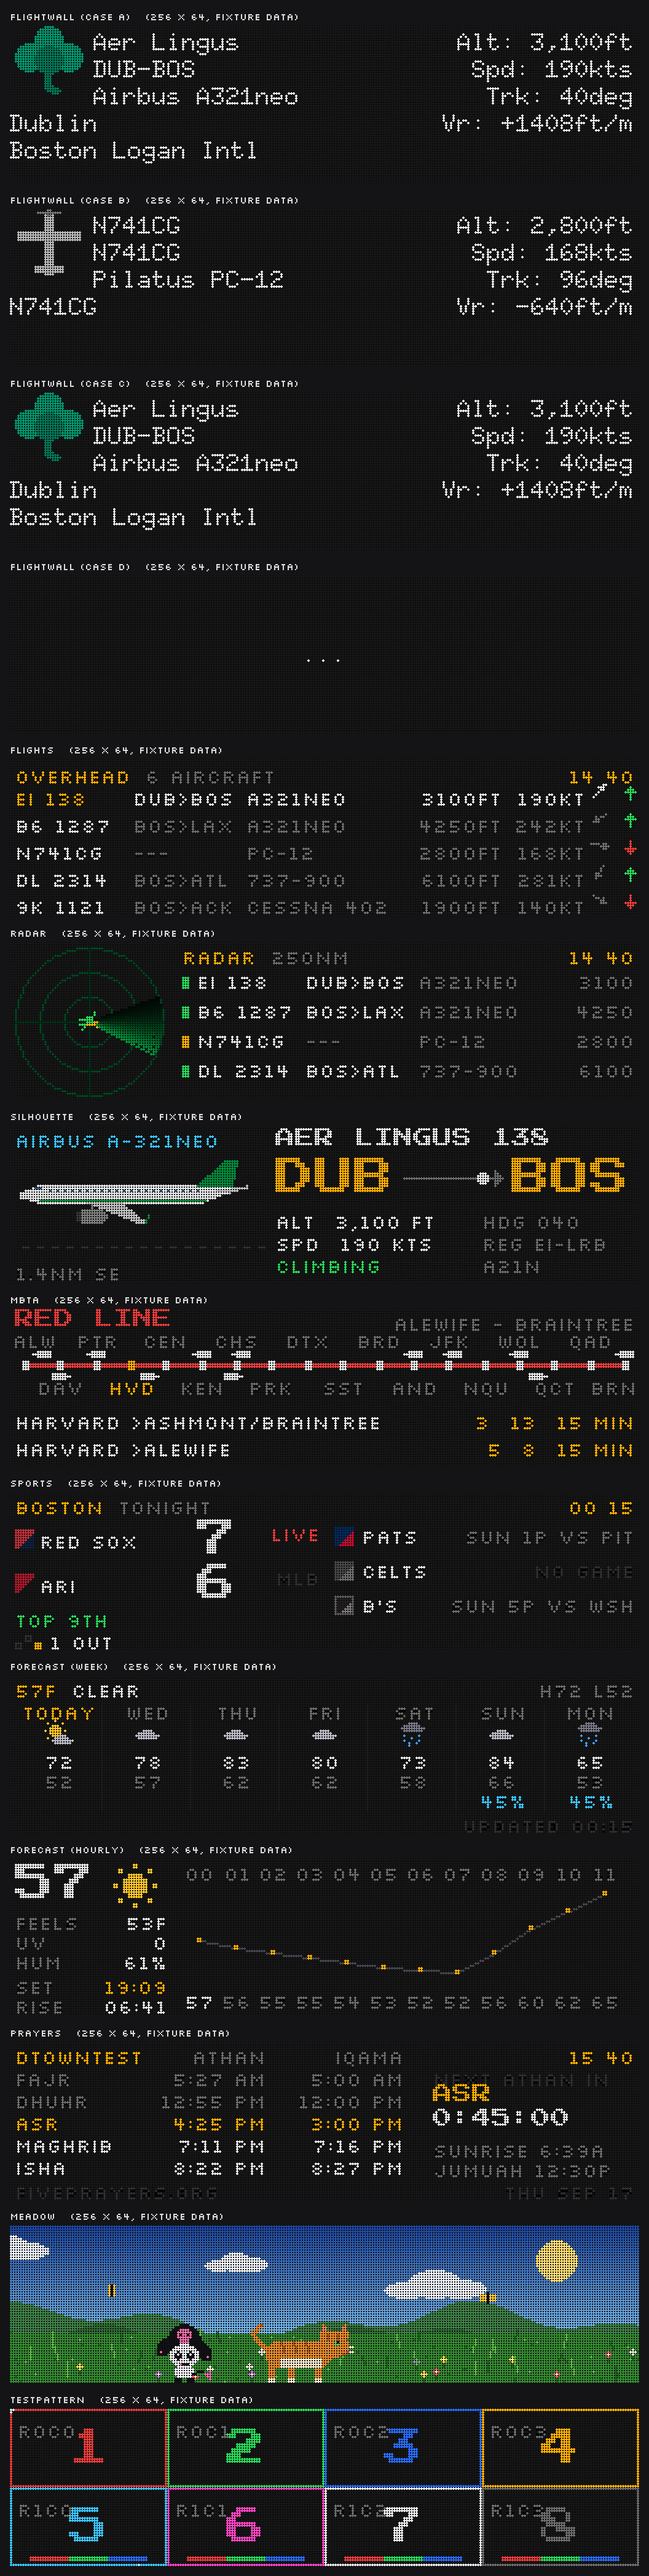
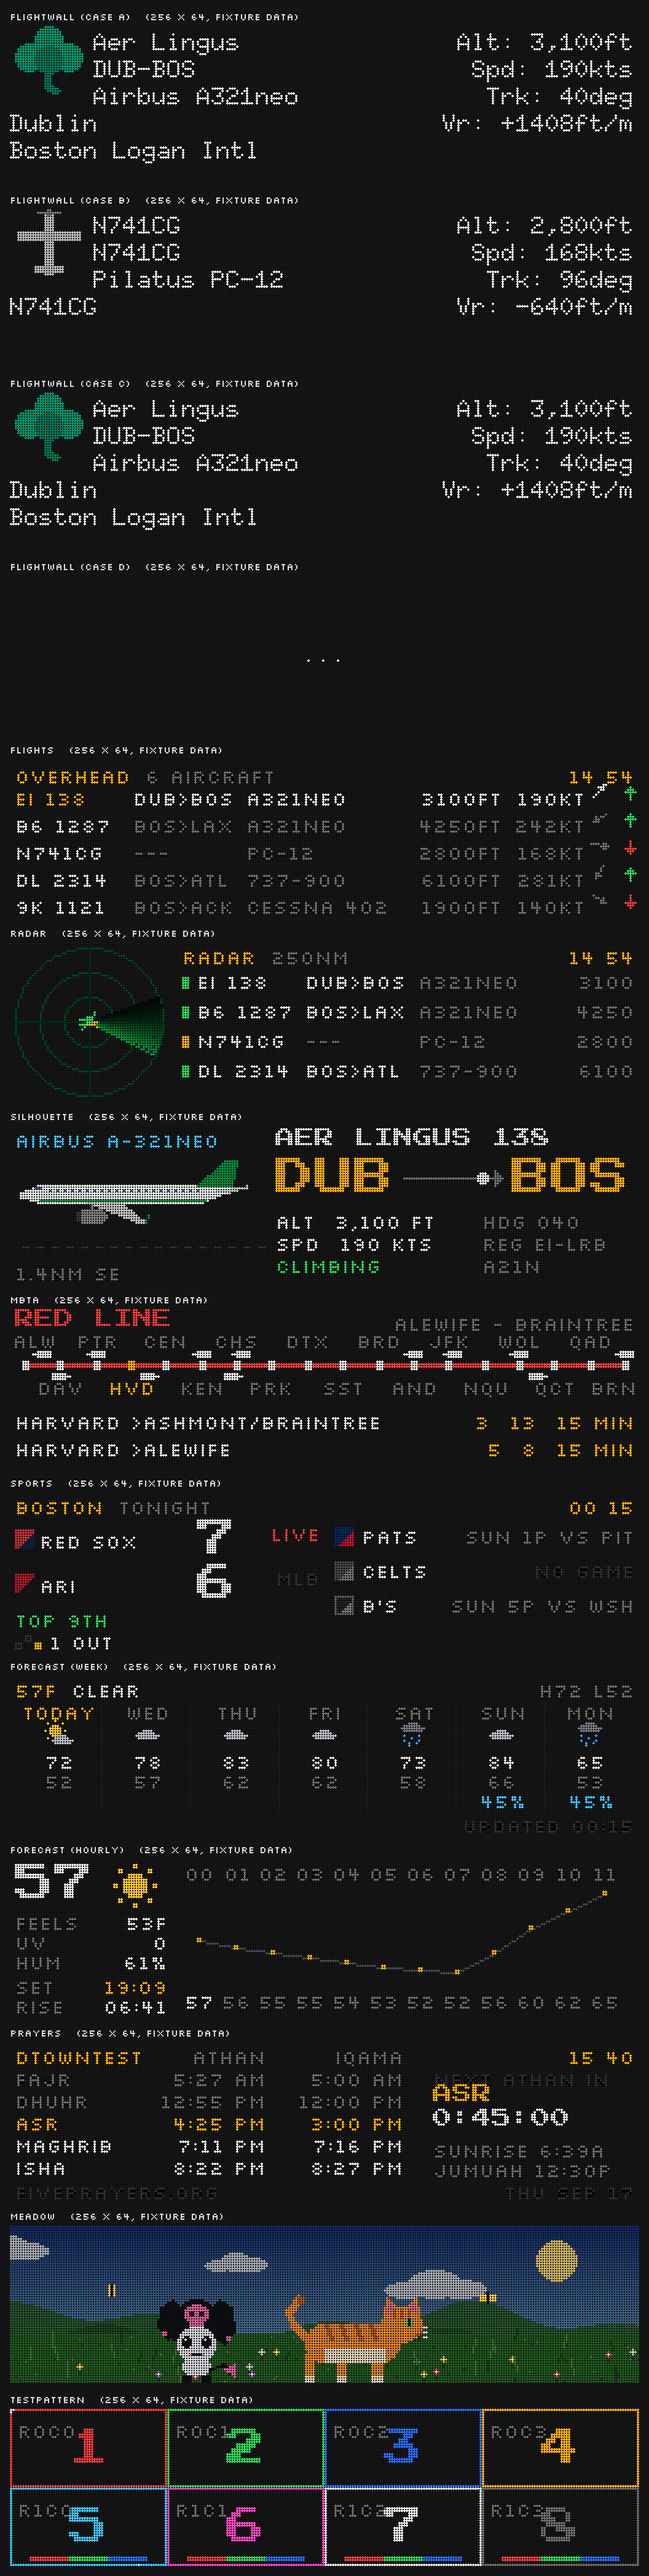
Meadow: bigger cat (60x36) and Kuromi (32x34), muted background palette
Both sprites redrawn by hand at ~1.5x so legs, stripes, ears and faces have
enough pixels to read on the wall; the sitting cat gets a chest bib with
legs either side, Kuromi's ears rise from the hood and droop with the hop.
Sky, hills, grass, clouds and flowers are pulled down ~35% so the bright
LEDs don't glare and the characters carry the scene.

Changed region(s): [[0.0, 0.8381, 1.0, 0.9312]]

diff --git a/panelwall/channels/meadow.py b/panelwall/channels/meadow.py
@@ -3,7 +3,8 @@
 Scene (256x64), back to front:
   sky gradient + sun, three drifting clouds (slow parallax), two layers of rolling hills
   (pre-rendered 512 px wide, scrolled with wrap), a flowered grass strip (y 44-63) with
-  ~60 swaying blades, two butterflies on sine paths, the cat, and Kuromi.
+  ~90 swaying blades, two butterflies on sine paths, the cat (60x36) and Kuromi (32x34).
+  The palette is muted on purpose: the LEDs are bright, and the characters should pop.
 
 The world scrolls while the cat walks (the cat stays near x=96); the layers wrap, so it
 loops forever. A small state machine gives the cat a life: walk, stop and sit, tail
@@ -27,19 +28,19 @@ from PIL import Image, ImageDraw
 from ..framebuffer import Frame, W, H
 from .base import Channel
 
-# ---- palette -------------------------------------------------------------------------------------
-SKY_TOP, SKY_BOTTOM = (28, 70, 160), (120, 185, 235)
-SUN = (255, 225, 120)
-CLOUD = (240, 244, 250)
-HILL_FAR, HILL_NEAR = (62, 130, 70), (46, 110, 52)
-GRASS, GRASS_DARK, GRASS_LIGHT = (52, 140, 48), (36, 105, 36), (96, 190, 70)
-FLOWERS = ((255, 90, 120), (255, 220, 60), (240, 240, 255), (200, 120, 255))
-ORANGE, ORANGE_DARK, CREAM = (235, 140, 40), (190, 95, 20), (250, 235, 205)
-BLACK, WHITE, PINK, GREEN_EYE = (18, 18, 22), (245, 245, 250), (240, 110, 170), (90, 200, 90)
+# ---- palette (deliberately muted: the wall is bright, and the characters should carry the scene) ----
+SKY_TOP, SKY_BOTTOM = (16, 40, 95), (70, 108, 140)
+SUN = (205, 180, 95)
+CLOUD = (165, 170, 178)
+HILL_FAR, HILL_NEAR = (38, 82, 44), (28, 68, 32)
+GRASS, GRASS_DARK, GRASS_LIGHT = (32, 88, 30), (22, 62, 22), (58, 118, 44)
+FLOWERS = ((190, 70, 95), (195, 165, 45), (175, 175, 190), (145, 90, 190))
+ORANGE, ORANGE_DARK, CREAM = (225, 130, 35), (175, 85, 18), (225, 210, 180)
+BLACK, WHITE, PINK, GREEN_EYE = (14, 14, 18), (215, 215, 222), (220, 95, 155), (80, 180, 80)
 
 WORLD_W = 512                     # hills/ground tile width; scroll wraps here
 HORIZON = 44
-CAT_X = 96
+CAT_X = 110
 WALK_SPEED = 14.0                 # px/s world scroll while walking
 
 
@@ -116,93 +117,101 @@ def blades() -> list[tuple[int, int, int, float]]:
     return [(rnd.randrange(WORLD_W), rnd.randrange(HORIZON + 2, H), rnd.randrange(3, 7), rnd.random() * math.tau) for _ in range(90)]
 
 
-# ---- sprites -------------------------------------------------------------------------------------
+# ---- sprites (hand-placed at 60x36 / 32x34 so edges stay crisp) ------------------------------------
+CAT_W, CAT_H = 60, 36
+KUROMI_W, KUROMI_H = 32, 34
+
+
+def _cat_head(d: ImageDraw.ImageDraw, cx: int, hy: int, look_back: bool) -> None:
+    """17x16 head with ears, facing right; mirrored features when looking back over the shoulder."""
+    flip = -1 if look_back else 1
+    d.ellipse([cx, hy + 2, cx + 16, hy + 16], fill=ORANGE)
+    d.polygon([(cx + 1, hy + 5), (cx + 2, hy - 2), (cx + 7, hy + 3)], fill=ORANGE)          # ears
+    d.polygon([(cx + 9, hy + 3), (cx + 14, hy - 2), (cx + 15, hy + 5)], fill=ORANGE)
+    d.polygon([(cx + 2, hy + 4), (cx + 3, hy), (cx + 5, hy + 3)], fill=PINK)                 # inner ears
+    d.polygon([(cx + 11, hy + 3), (cx + 13, hy), (cx + 14, hy + 4)], fill=PINK)
+    for sx in (cx + 5, cx + 8, cx + 11):                                                     # forehead 'M'
+        d.line([(sx, hy + 3), (sx, hy + 6)], fill=ORANGE_DARK)
+    ex = cx + (11 if flip > 0 else 3)
+    d.rectangle([ex - 1, hy + 7, ex + 1, hy + 9], fill=GREEN_EYE)                            # eye
+    d.rectangle([ex, hy + 7, ex, hy + 9], fill=BLACK)
+    nx = cx + (16 if flip > 0 else 0)
+    d.rectangle([nx - 1, hy + 11, nx, hy + 11], fill=PINK)                                   # nose
+    d.line([(nx, hy + 12), (nx - 2 * flip, hy + 13)], fill=ORANGE_DARK)                      # mouth
+    for i, wy in enumerate((hy + 10, hy + 12, hy + 14)):                                      # whiskers
+        d.line([(nx + 1 * flip, wy), (nx + 7 * flip, wy + (i - 1) * 2)], fill=CREAM)
+
+
 @lru_cache(maxsize=16)
 def cat_sprite(pose: str, step: int = 0, look_back: bool = False) -> Image.Image:
-    """Orange tabby, side view facing right, in a 44x26 box. pose: walk | sit. step 0-3 for the walk cycle."""
-    im = Image.new("RGBA", (44, 26), (0, 0, 0, 0))
+    """Orange tabby, side view facing right, in a 60x36 box. pose: walk | sit. step 0-3 for the walk cycle."""
+    im = Image.new("RGBA", (CAT_W, CAT_H), (0, 0, 0, 0))
     d = ImageDraw.Draw(im)
-    gy = 25                                                 # ground line (bottom row)
+    gy = CAT_H - 1
     if pose == "walk":
-        # legs: two pairs alternating; step 0..3 -> phase
         ph = (0, 1, 0, -1)[step % 4]
-        for lx, back in ((11, True), (15, True), (26, False), (30, False)):
-            dx = ph * (2 if back else -2) * (1 if lx in (11, 26) else -1)
-            d.rectangle([lx + dx, 17, lx + dx + 2, gy], fill=ORANGE)
-            d.rectangle([lx + dx, gy - 1, lx + dx + 2, gy], fill=CREAM)      # paws
-        d.rounded_rectangle([8, 9, 34, 19], radius=5, fill=ORANGE)            # body
-        d.rectangle([14, 16, 30, 19], fill=CREAM)                             # belly
-        for sx in (14, 19, 24):                                               # tabby stripes
-            d.line([(sx, 9), (sx + 1, 13)], fill=ORANGE_DARK)
-        # tail: up and curled, with a little sway per step
-        tail = [(8, 12), (4, 8), (3, 4 + (step % 2)), (6, 2)]
-        d.line(tail, fill=ORANGE, width=2)
-        d.point((6, 2), fill=ORANGE_DARK)
-        hx = 30                                                               # head at the front
-        hy = 5
-    else:                                                                     # sit
-        d.polygon([(10, 25), (12, 10), (30, 10), (34, 25)], fill=ORANGE)       # haunches/back
-        d.rounded_rectangle([12, 8, 32, 20], radius=5, fill=ORANGE)
-        d.rectangle([18, 15, 30, 24], fill=CREAM)                             # chest
-        d.rectangle([21, 19, 23, gy], fill=ORANGE)                            # front legs
-        d.rectangle([27, 19, 29, gy], fill=ORANGE)
-        d.rectangle([21, gy - 1, 23, gy], fill=CREAM)
-        d.rectangle([27, gy - 1, 29, gy], fill=CREAM)
-        for sx in (16, 21, 26):
-            d.line([(sx, 8), (sx + 1, 12)], fill=ORANGE_DARK)
-        d.line([(12, 22), (6, 24), (3, 20 - 2 * (step % 2))], fill=ORANGE, width=2)   # tail along the ground, flicking
-        hx, hy = 30, 2
-    # head (shared): 12x11 with ears, facing right (or back-left when looking back)
-    flip = -1 if look_back else 1
-    cx = hx + (0 if not look_back else -8)
-    d.ellipse([cx - 1, hy, cx + 11, hy + 10], fill=ORANGE)
-    d.polygon([(cx, hy + 2), (cx + 1, hy - 3), (cx + 4, hy + 1)], fill=ORANGE)         # ears
-    d.polygon([(cx + 7, hy + 1), (cx + 10, hy - 3), (cx + 11, hy + 2)], fill=ORANGE)
-    d.point([(cx + 1, hy - 1), (cx + 9, hy - 1)], fill=PINK)
-    d.line([(cx + 3, hy + 1), (cx + 3, hy + 3)], fill=ORANGE_DARK)                     # forehead 'M'
-    d.line([(cx + 7, hy + 1), (cx + 7, hy + 3)], fill=ORANGE_DARK)
-    ex = cx + (7 if flip > 0 else 3)
-    d.rectangle([ex - 1, hy + 4, ex, hy + 5], fill=GREEN_EYE)                          # eye
-    d.point((ex, hy + 4), fill=BLACK)
-    nx = cx + (11 if flip > 0 else -1)
-    d.point((nx, hy + 7), fill=PINK)                                                   # nose
-    d.line([(nx, hy + 8), (nx - 2 * flip, hy + 9)], fill=ORANGE_DARK)                  # mouth
-    for wy in (hy + 6, hy + 8):                                                        # whiskers
-        d.line([(nx + 1 * flip, wy), (nx + 5 * flip, wy - (1 if wy == hy + 6 else -1))], fill=CREAM)
+        for lx, back, sign in ((13, True, 1), (20, True, -1), (34, False, -1), (41, False, 1)):
+            dx = ph * 3 * sign
+            d.rectangle([lx + dx, 24, lx + dx + 3, gy], fill=ORANGE)
+            d.rectangle([lx + dx, gy - 2, lx + dx + 3, gy], fill=CREAM)                     # paws
+        d.rounded_rectangle([10, 12, 48, 27], radius=7, fill=ORANGE)                        # body
+        d.rectangle([18, 22, 42, 27], fill=CREAM)                                           # belly
+        for sx in (18, 24, 30, 36):                                                         # tabby stripes
+            d.line([(sx, 12), (sx + 2, 18)], fill=ORANGE_DARK, width=2)
+        tail = [(11, 18), (5, 12), (3, 6 + (step % 2)), (8, 1)]                              # tail up, swaying
+        d.line(tail, fill=ORANGE, width=3)
+        d.rectangle([7, 1, 9, 3], fill=ORANGE_DARK)
+        _cat_head(d, 41, 3, False)
+    else:
+        d.polygon([(12, gy), (15, 16), (42, 16), (48, gy)], fill=ORANGE)                     # haunches / back
+        d.rounded_rectangle([15, 12, 46, 30], radius=7, fill=ORANGE)
+        d.rectangle([31, 21, 41, 29], fill=CREAM)                                           # chest bib
+        for lx in (29, 40):                                                                 # front legs, orange, paws cream
+            d.rectangle([lx, 26, lx + 3, gy], fill=ORANGE)
+            d.rectangle([lx, gy - 2, lx + 3, gy], fill=CREAM)
+        d.rectangle([33, 30, 39, gy], fill=ORANGE_DARK)                                     # shadow between the legs
+        for sx in (20, 26, 32):
+            d.line([(sx, 12), (sx + 2, 18)], fill=ORANGE_DARK, width=2)
+        d.line([(14, 32), (7, 34), (3, 28 - 3 * (step % 2))], fill=ORANGE, width=3)         # tail along the ground
+        _cat_head(d, 41 - (11 if look_back else 0), 0, look_back)
     return im
 
 
 @lru_cache(maxsize=4)
 def kuromi_sprite(step: int = 0) -> Image.Image:
-    """Kuromi: black jester hood with long ears, pink skull on the front, white face, devil tail. 22x24."""
-    im = Image.new("RGBA", (22, 24), (0, 0, 0, 0))
+    """Kuromi: black jester hood with long ears, pink skull, white face, devil tail. 32x34, feet on the bottom row."""
+    im = Image.new("RGBA", (KUROMI_W, KUROMI_H), (0, 0, 0, 0))
     d = ImageDraw.Draw(im)
-    # ears: long, hanging either side of the hood, tips swing with the hop
     sw = (0, 1, 0, -1)[step % 4]
-    d.polygon([(7, 2), (0, 9 + sw), (0, 13 + sw), (3, 13 + sw), (9, 5)], fill=BLACK)      # left ear, out and down
-    d.polygon([(14, 2), (21, 9 - sw), (21, 13 - sw), (18, 13 - sw), (12, 5)], fill=BLACK)  # right ear
-    d.point([(1, 12 + sw), (20, 12 - sw)], fill=PINK)                                       # ear tips
+    # ears: out and down from the hood, tips swinging with the hop
+    # ears rise from the hood, flare out, then droop; tips swing with the hop
+    d.polygon([(11, 6), (6, 0), (1, 3), (0, 12 + sw), (4, 17 + sw), (7, 12 + sw), (13, 9)], fill=BLACK)
+    d.polygon([(20, 6), (25, 0), (30, 3), (31, 12 - sw), (27, 17 - sw), (24, 12 - sw), (18, 9)], fill=BLACK)
+    d.rectangle([2, 14 + sw, 3, 15 + sw], fill=PINK)                                        # ear tips
+    d.rectangle([28, 14 - sw, 29, 15 - sw], fill=PINK)
     # hood
-    d.ellipse([4, 0, 17, 13], fill=BLACK)
-    d.rectangle([4, 7, 17, 11], fill=BLACK)
+    d.ellipse([6, 0, 25, 19], fill=BLACK)
+    d.rectangle([6, 10, 25, 16], fill=BLACK)
     # pink skull on the hood
-    d.ellipse([8, 2, 13, 6], fill=PINK)
-    d.rectangle([9, 6, 12, 7], fill=PINK)
-    d.point([(9, 4), (12, 4)], fill=BLACK)
+    d.ellipse([11, 2, 20, 9], fill=PINK)
+    d.rectangle([13, 9, 18, 10], fill=PINK)
+    d.rectangle([13, 5, 14, 6], fill=BLACK)
+    d.rectangle([17, 5, 18, 6], fill=BLACK)
     # face
-    d.ellipse([5, 8, 16, 17], fill=WHITE)
-    d.ellipse([7, 11, 9, 14], fill=BLACK)                                 # eyes
-    d.ellipse([12, 11, 14, 14], fill=BLACK)
-    d.point([(8, 12), (13, 12)], fill=WHITE)
-    d.line([(9, 16), (12, 16)], fill=BLACK)                               # mischievous grin
-    d.point((9, 16), fill=PINK)
+    d.ellipse([8, 11, 23, 25], fill=WHITE)
+    d.ellipse([10, 15, 13, 19], fill=BLACK)                                                 # eyes
+    d.ellipse([18, 15, 21, 19], fill=BLACK)
+    d.point([(11, 16), (19, 16)], fill=WHITE)
+    d.line([(13, 22), (18, 22)], fill=BLACK)                                                # mischievous grin
+    d.point((13, 22), fill=PINK)
+    d.point((18, 22), fill=PINK)
     # body + feet
-    d.rounded_rectangle([7, 17, 14, 21], radius=2, fill=WHITE)
-    d.rectangle([7, 22, 9, 23], fill=BLACK)
-    d.rectangle([12, 22, 14, 23], fill=BLACK)
+    d.rounded_rectangle([10, 24, 21, 30], radius=3, fill=WHITE)
+    d.rectangle([10, 31, 13, 33], fill=BLACK)
+    d.rectangle([18, 31, 21, 33], fill=BLACK)
     # devil tail
-    d.line([(14, 20), (18, 19), (20, 21)], fill=BLACK)
-    d.polygon([(19, 20), (21, 19), (21, 22)], fill=PINK)
+    d.line([(21, 28), (26, 26), (29, 29)], fill=BLACK, width=2)
+    d.polygon([(27, 28), (31, 26), (31, 31)], fill=PINK)
     return im
 
 
@@ -232,7 +241,7 @@ class MeadowChannel(Channel):
         self.state = "walk"
         self.state_until = 6.0
         self.look_back = False
-        self.kuromi_gap = 34.0          # how far behind the cat Kuromi is
+        self.kuromi_gap = 48.0          # how far behind the cat Kuromi is
         self._frames = 0
 
     def priority(self) -> int:
@@ -250,9 +259,9 @@ class MeadowChannel(Channel):
         if self.state == "walk":
             self.scroll = (self.scroll + WALK_SPEED * dt) % WORLD_W
             # Kuromi lags, then catches up a little while the cat walks
-            self.kuromi_gap = min(40.0, self.kuromi_gap + 1.5 * dt)
+            self.kuromi_gap = min(56.0, self.kuromi_gap + 1.5 * dt)
         else:
-            self.kuromi_gap = max(26.0, self.kuromi_gap - 4.0 * dt)   # she catches up when the cat sits
+            self.kuromi_gap = max(38.0, self.kuromi_gap - 5.0 * dt)   # she catches up when the cat sits
 
     def _next_state(self) -> None:
         r = self.rnd
@@ -291,15 +300,15 @@ class MeadowChannel(Channel):
             spr = butterfly_sprite(int(self.t * 10 + i) % 2 == 0)
             img.paste(spr, (int(bxf), int(byf)), spr)
         # Kuromi hops behind the cat
-        hop = abs(math.sin(self.t * 5.0)) * 3 if self.state == "walk" else 0
+        hop = abs(math.sin(self.t * 5.0)) * 4 if self.state == "walk" else 0
         ks = kuromi_sprite(int(self.t * 6) % 4 if self.state == "walk" else 0)
-        img.paste(ks, (int(CAT_X - self.kuromi_gap), H - 24 - int(hop)), ks)
+        img.paste(ks, (int(CAT_X - self.kuromi_gap), H - KUROMI_H - int(hop)), ks)
         # the cat
         if self.state == "walk":
             cs = cat_sprite("walk", int(self.t * 6) % 4)
         else:
             cs = cat_sprite("sit", int(self.t * 2) % 2, self.look_back)
-        img.paste(cs, (CAT_X, H - 26), cs)
+        img.paste(cs, (CAT_X, H - CAT_H), cs)
         self._frames += 1
 
     @staticmethod

diff --git a/tests/test_meadow.py b/tests/test_meadow.py
@@ -2,7 +2,7 @@ import time
 
 import numpy as np
 
-from panelwall.channels.meadow import MeadowChannel, cat_sprite, kuromi_sprite, WORLD_W, CAT_X
+from panelwall.channels.meadow import MeadowChannel, cat_sprite, kuromi_sprite, WORLD_W, CAT_X, CAT_W, CAT_H, KUROMI_W, KUROMI_H
 from panelwall.framebuffer import Frame, W, H
 
 
@@ -13,12 +13,12 @@ def _run(ch, seconds, dt=0.05):
 
 def test_sprites_build_and_differ_per_step():
     walks = [np.asarray(cat_sprite("walk", s)) for s in range(4)]
-    assert all(w.shape == (26, 44, 4) for w in walks)
+    assert all(w.shape == (CAT_H, CAT_W, 4) for w in walks)
     assert (walks[0] != walks[1]).any() and (walks[0] == walks[2]).all()           # 4-step cycle, 0 == 2
     sit, back = np.asarray(cat_sprite("sit", 0)), np.asarray(cat_sprite("sit", 0, True))
     assert (sit != back).any()
     k = [np.asarray(kuromi_sprite(s)) for s in range(4)]
-    assert k[0].shape == (24, 22, 4) and (k[0] != k[1]).any()
+    assert k[0].shape == (KUROMI_H, KUROMI_W, 4) and (k[0] != k[1]).any()
     # brand check: Kuromi is mostly black and white with some pink; the cat is mostly orange
     kp = k[0][k[0][:, :, 3] > 0][:, :3]
     assert (kp.max(axis=1) < 40).mean() > 0.3 and ((kp[:, 0] > 200) & (kp[:, 1] < 150)).any()
@@ -64,5 +64,5 @@ def test_render_is_cheap_and_fills_the_frame():
         ch.render(f)
     assert (time.perf_counter() - t0) / 50 < 0.01                                      # < 10 ms/frame
     # the cat is where the scene says it is: orange pixels around CAT_X on the ground
-    patch = arr[H - 26:H, CAT_X:CAT_X + 44]
-    assert ((patch[:, :, 0] > 180) & (patch[:, :, 2] < 80)).sum() > 100
+    patch = arr[H - CAT_H:H, CAT_X:CAT_X + CAT_W]
+    assert ((patch[:, :, 0] > 180) & (patch[:, :, 2] < 80)).sum() > 200
